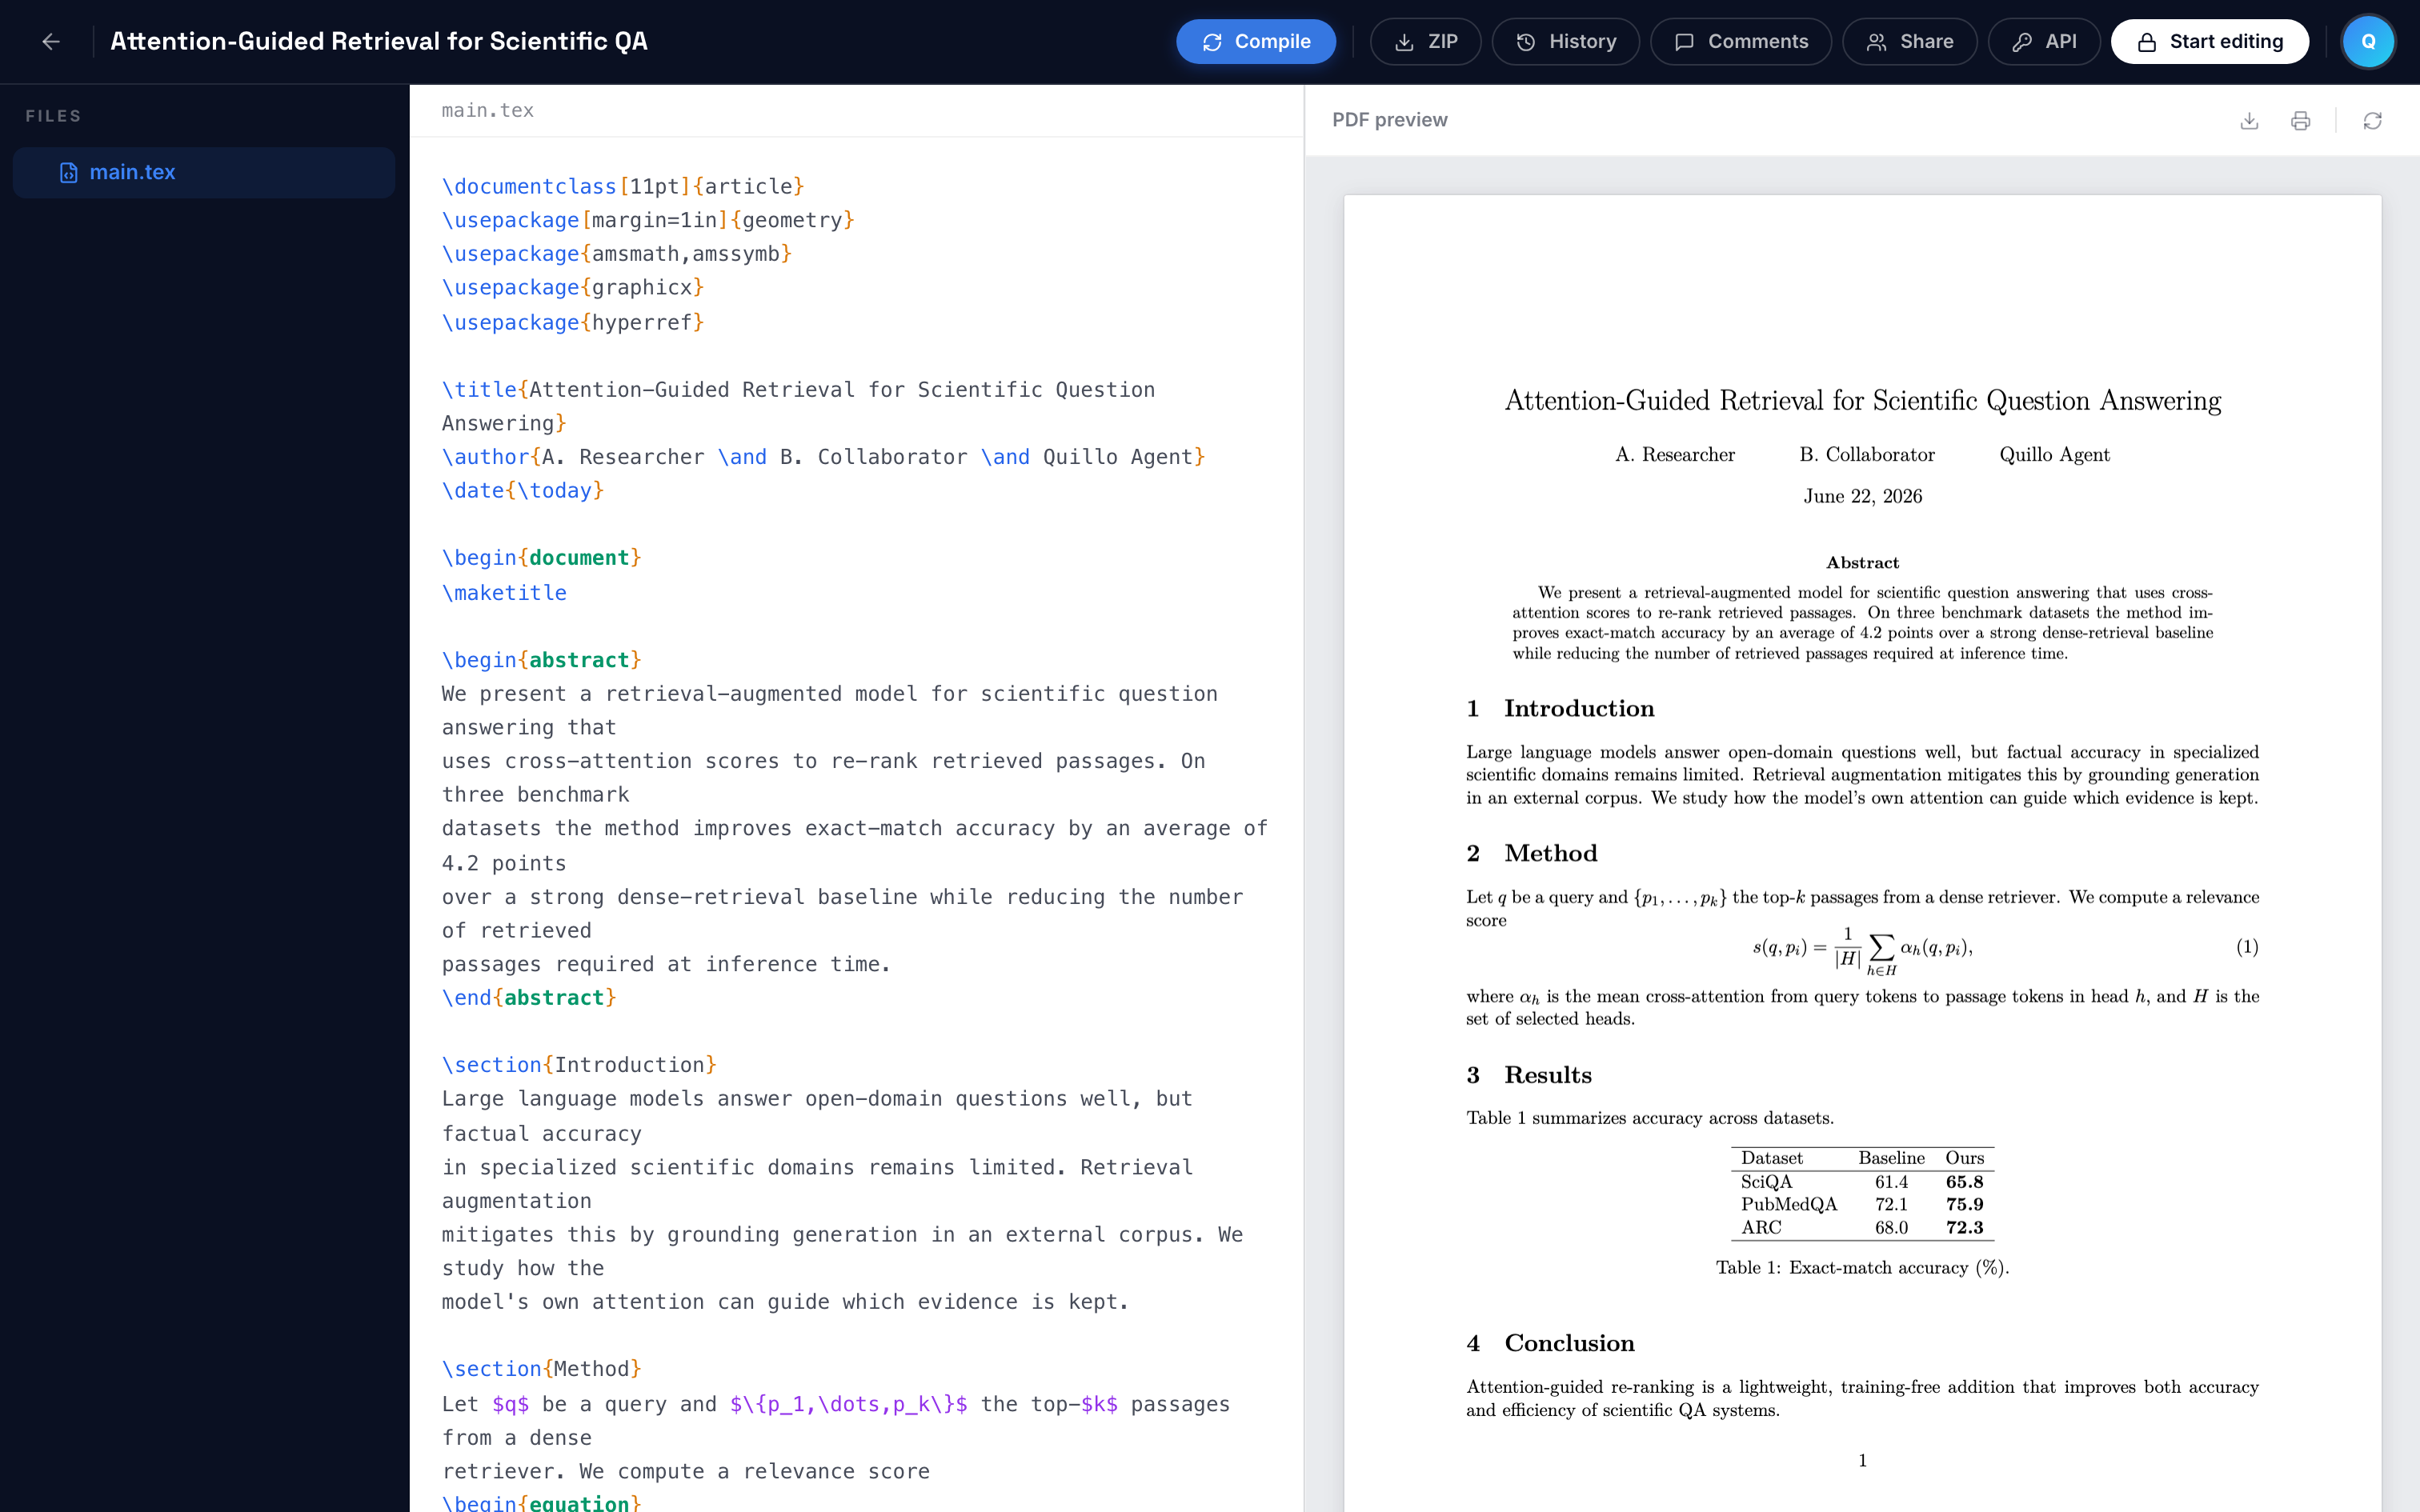
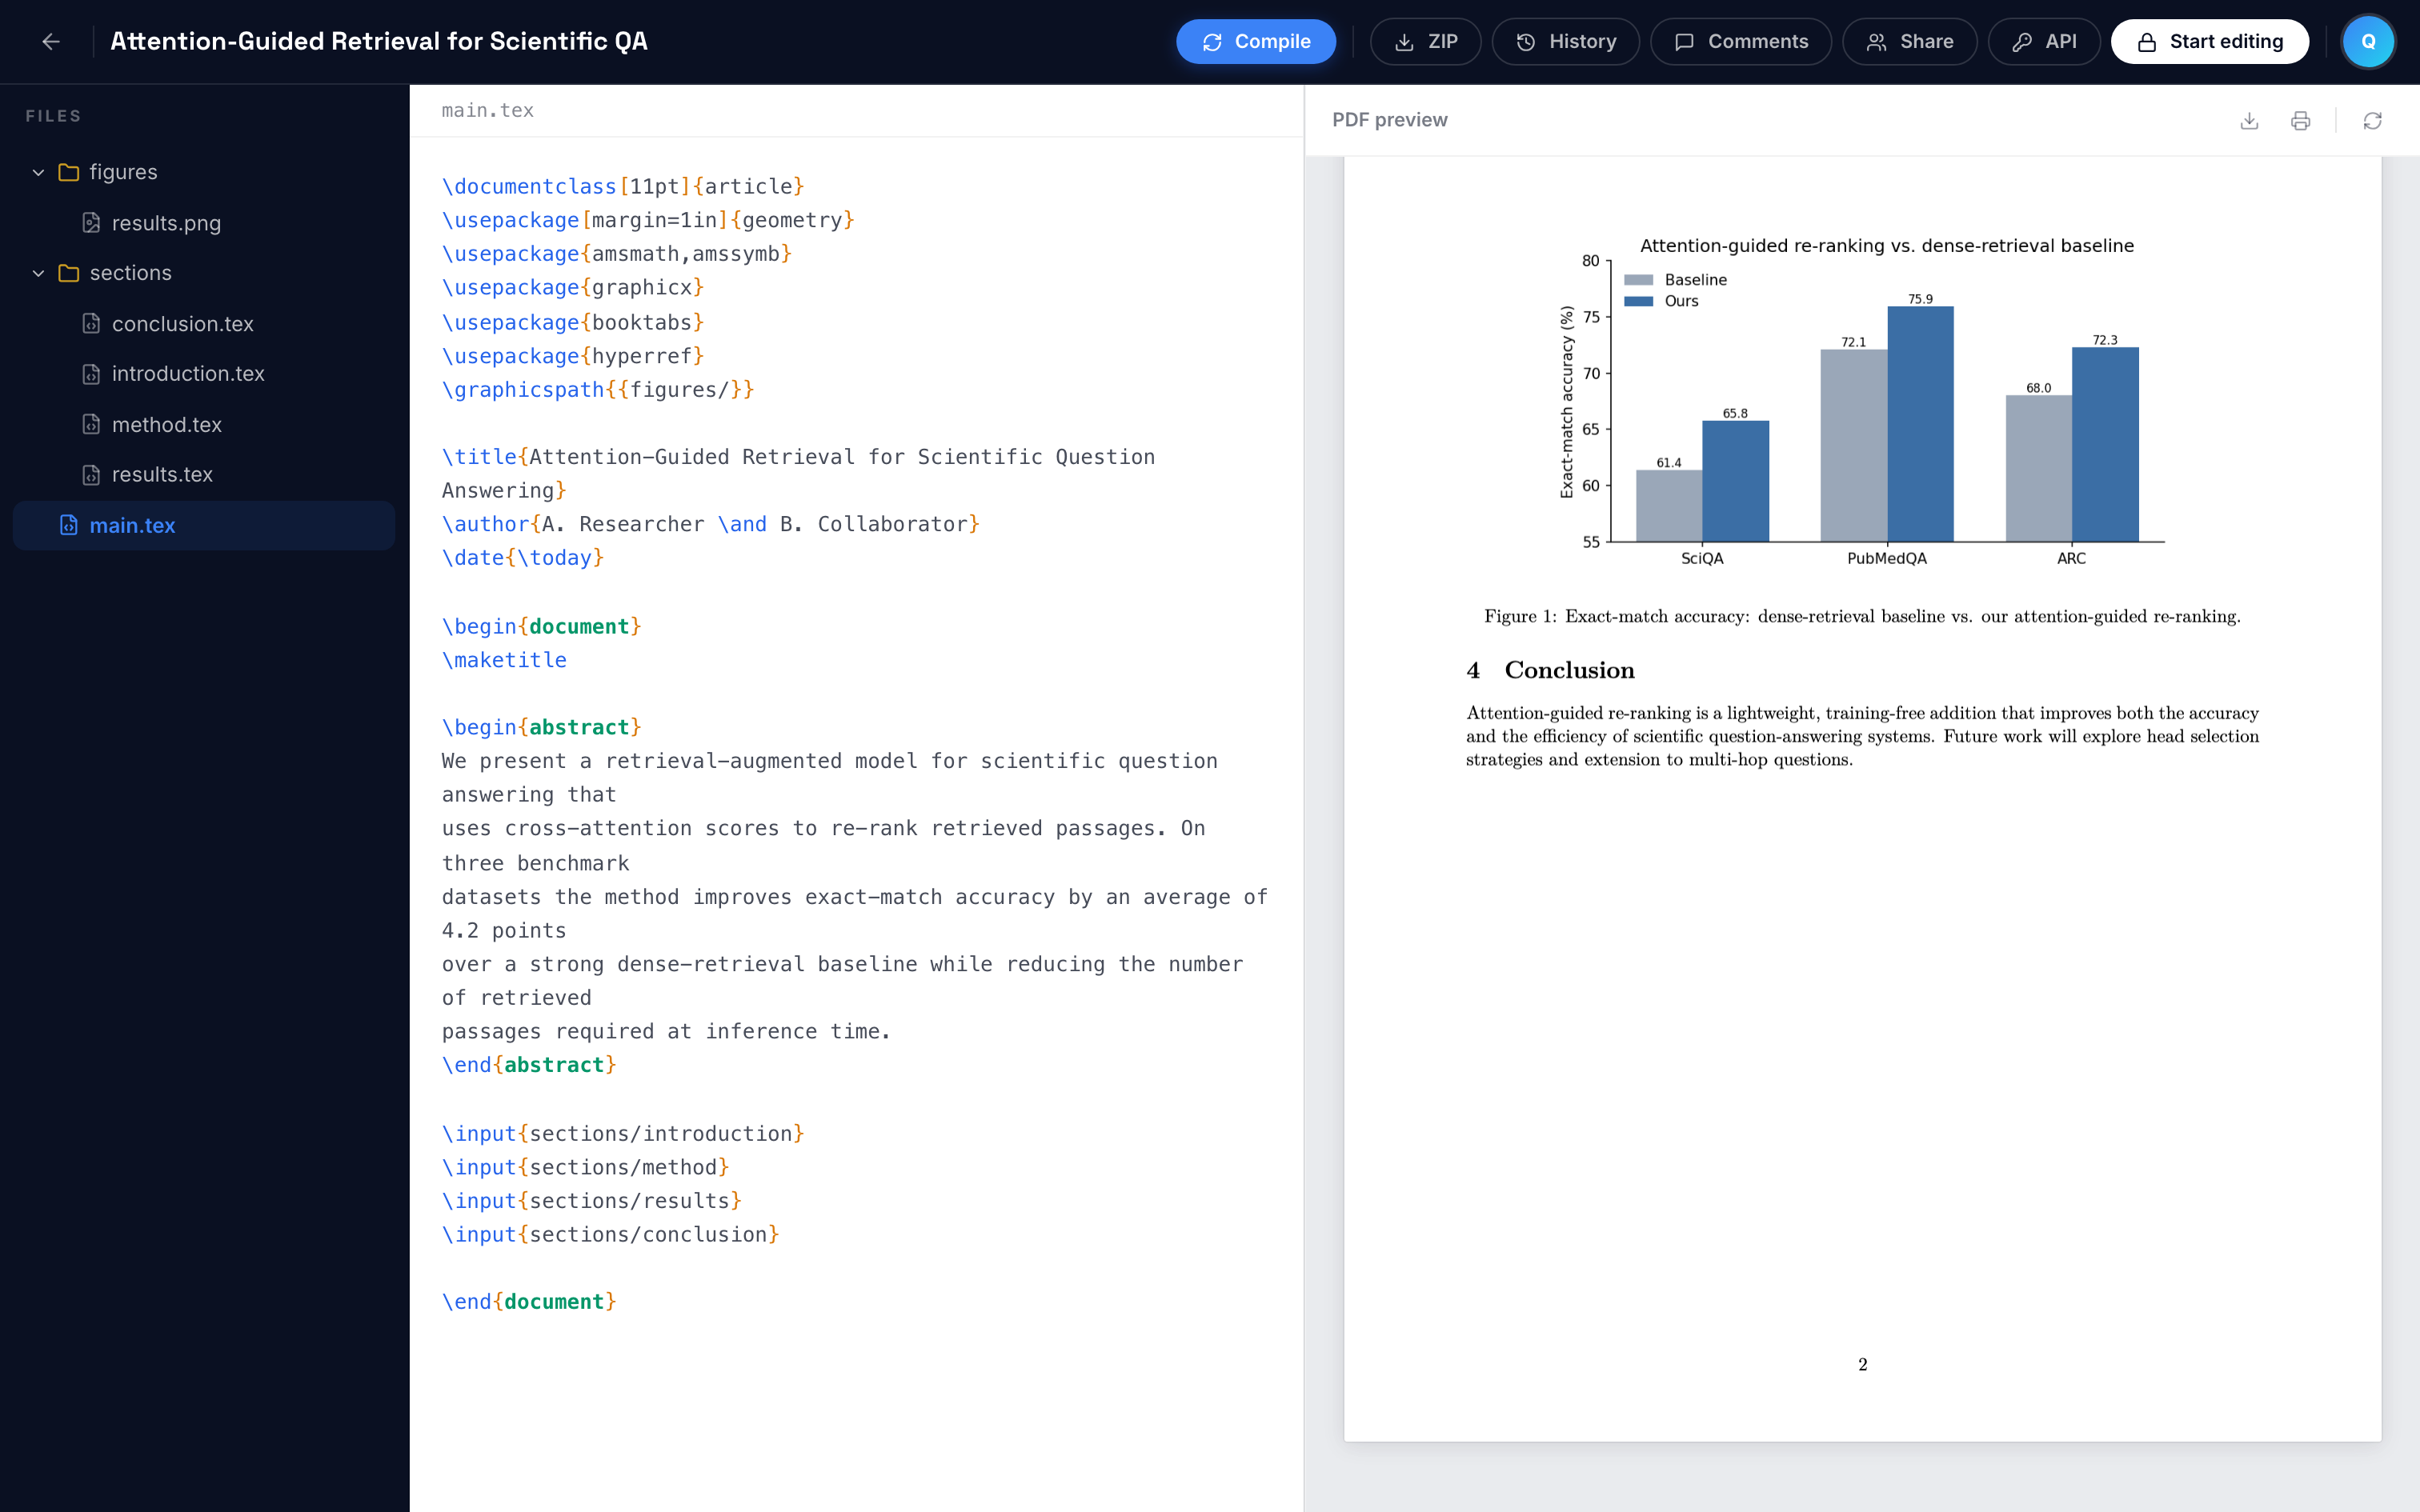
docs: structured sample project + API-sharing screenshot
- Restructured the sample paper into a realistic multi-file project:
  main.tex \input{sections/*.tex} (introduction/method/results/conclusion)
  with \graphicspath, plus a generated figure at figures/results.png shown
  via \includegraphics. Recaptured the editor screenshot (expanded file tree
  + figure rendered in the PDF preview).
- Added docs/screenshots/api-share.png and an English explanation of the
  'External API access' dialog (project URL, personal token, agent prompt).

diff --git a/README.md b/README.md
@@ -8,7 +8,7 @@ You bring your own model. Quillo just makes the paper reachable.
 
 ![Quillo editor — file tree, LaTeX source, and live PDF preview side by side](docs/screenshots/editor.png)
 
-*The editor: file tree, LaTeX source with syntax highlighting, and a live `xelatex` PDF preview — the same project an agent edits over the API.*
+*The editor: a multi-file project (`main.tex` pulling in `sections/*.tex` via `\input`, a figure under `figures/`), LaTeX source with syntax highlighting, and a live `xelatex` PDF preview — the same project an agent edits over the API.*
 
 | Layer | Stack | Default port |
 |---|---|---|
@@ -82,6 +82,10 @@ scripts/restart.sh    # git pull + restart
 ## Connecting your AI agent
 
 This is the part Overleaf can't do. Any agent that can make HTTP requests becomes a co-author.
+
+![Quillo "External API access" dialog — project API URL, personal token, and a ready-to-paste agent prompt](docs/screenshots/api-share.png)
+
+*The **API** button in the editor opens "External API access": it shows this paper's API URL, lets you issue/revoke a personal token, and gives you a ready-to-paste prompt for an agent. Hand the agent just the URL + token — it discovers everything else from the in-app guide. External edits obey the same lock model, so writes are rejected (423) while someone else is editing.*
 
 ### 1. Get a personal API token
 